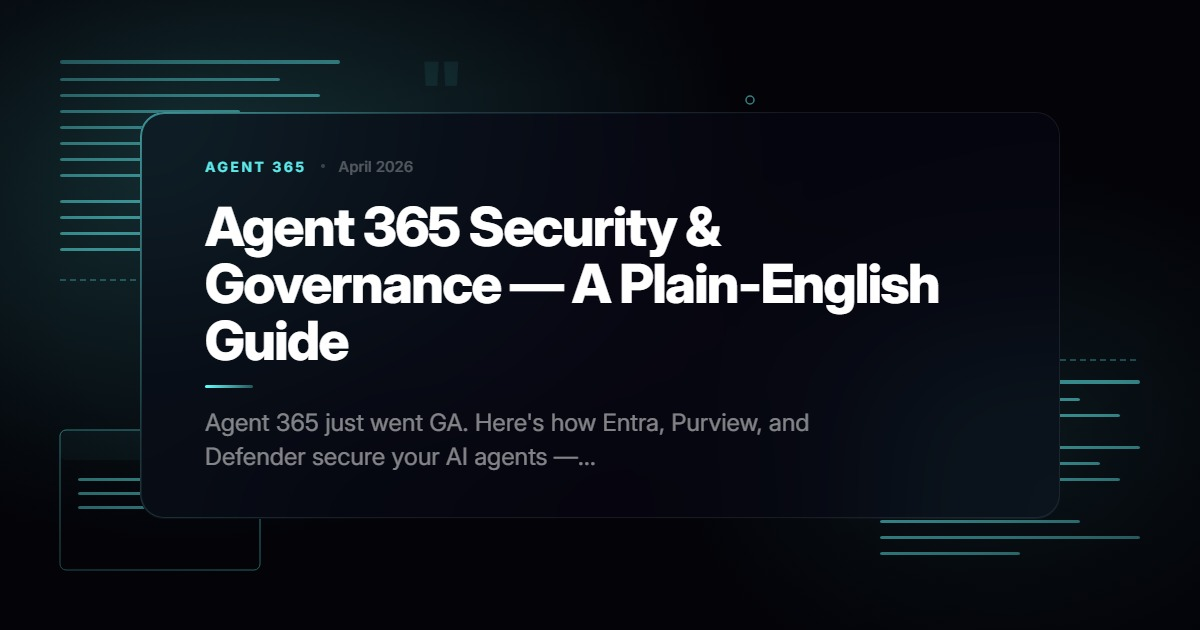
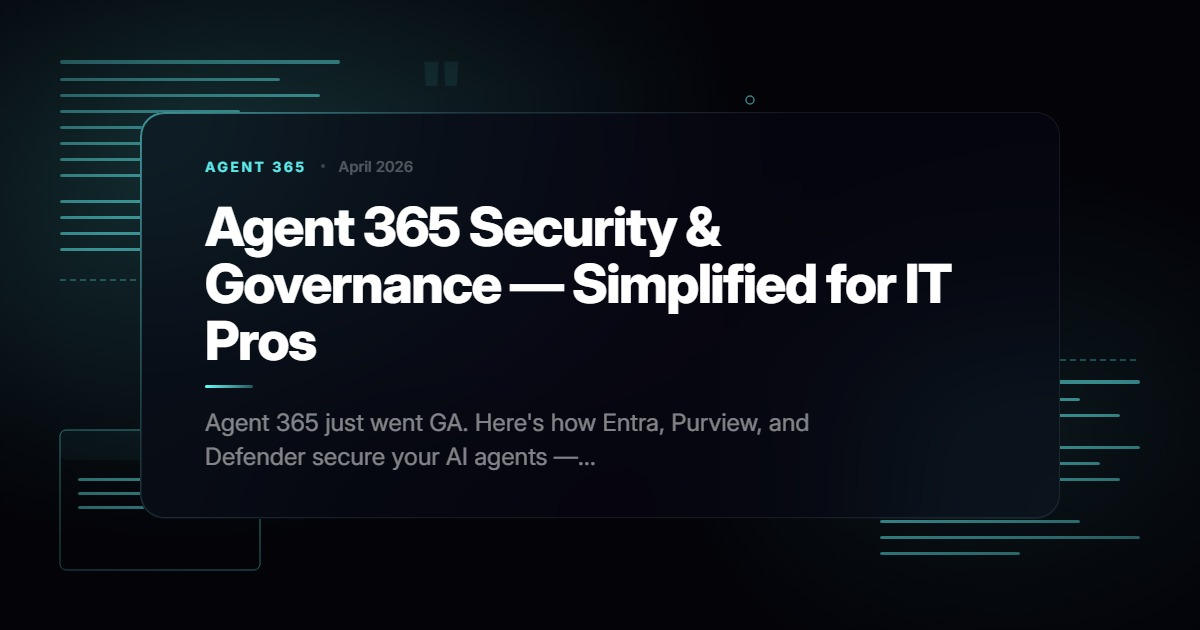
Update blog title: Agent 365 Security & Governance — Simplified for IT Pros

Changed region(s): [[0.4625, 0.3921, 0.8017, 0.5127], [0.1542, 0.5127, 0.3083, 0.573]]

diff --git a/content/blog/agent-365-security-governance-complete-guide.md b/content/blog/agent-365-security-governance-complete-guide.md
@@ -1,5 +1,5 @@
 ---
-title: "Agent 365 Security & Governance — A Plain-English Guide"
+title: "Agent 365 Security & Governance — Simplified for IT Pros"
 description: "Agent 365 just went GA. Here's how Entra, Purview, and Defender secure your AI agents — with real screenshots, scenarios, and no marketing fluff."
 date: 2026-04-30
 lastmod: 2026-05-01
